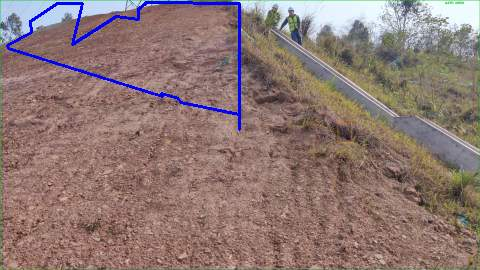
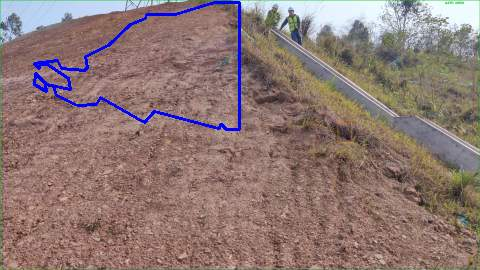
fix: 恢复正确视频映射 + 移除错误ROI标定，改用FastSAM自动检测
问题根因:
- bak文件(Jul11)中的2.flv/3.flv ROI标定已被桌面端废弃(Jul13)
- 我错误地从bak恢复了这些废弃的ROI数据
- 桌面端对2.flv/3.flv使用FastSAM自动检测，结果正确

修改:
- _shared.py: 恢复cam→flv, test→mp4的正确映射
- roi_config.json: 移除2.flv/3.flv的旧标定(仅保留1.flv/4.flv)
- 重新生成qinzhou_cam_2/3 demo数据(FastSAM自动检测ROI)
  - 2.flv: 边坡55% 道路15% → 35顶点
  - 3.flv: 边坡38% 道路13% → 28顶点

Changed region(s): [[0.0, 0.0, 0.5312, 0.5037]]

diff --git a/_shared.py b/_shared.py
@@ -266,38 +266,38 @@ DEMO_SCENES = {
     },
     "qinzhou_cam_2": {
         "title": "钦州监测视频 2",
-        "subtitle": "钦州公路边坡现场落石试验 — VID_20230304_114247.mp4",
+        "subtitle": "钦州公路边坡实时监测 — 2.flv",
         "icon": "Camera",
-        "data_dir": "demo_data/baise_s1",
+        "data_dir": "demo_data/qinzhou_cam_2",
         "site_id": "qinzhou_s0",
-        "source_video": "VID_20230304_114247.mp4",
+        "source_video": "2.flv",
         "tags": ["钦州", "监测摄像头", "实时"],
     },
     "qinzhou_cam_3": {
         "title": "钦州监测视频 3",
-        "subtitle": "钦州公路边坡现场落石试验 — VID_20230304_153140.mp4",
+        "subtitle": "钦州公路边坡实时监测 — 3.flv",
         "icon": "Camera",
-        "data_dir": "demo_data/qinzhou_s1",
+        "data_dir": "demo_data/qinzhou_cam_3",
         "site_id": "qinzhou_s0",
-        "source_video": "VID_20230304_153140.mp4",
+        "source_video": "3.flv",
         "tags": ["钦州", "监测摄像头", "实时"],
     },
     "qinzhou_test_a": {
         "title": "钦州落石试验 A",
-        "subtitle": "钦州公路边坡实时监测 — 2.flv",
+        "subtitle": "钦州现场落石试验 — VID_20230304_114247.mp4",
         "icon": "Experiment",
-        "data_dir": "demo_data/qinzhou_cam_2",
+        "data_dir": "demo_data/baise_s1",
         "site_id": "qinzhou_s0",
-        "source_video": "2.flv",
+        "source_video": "VID_20230304_114247.mp4",
         "tags": ["钦州", "落石试验", "现场"],
     },
     "qinzhou_test_b": {
         "title": "钦州落石试验 B",
-        "subtitle": "钦州公路边坡实时监测 — 3.flv",
+        "subtitle": "钦州现场落石试验 — VID_20230304_153140.mp4",
         "icon": "Experiment",
-        "data_dir": "demo_data/qinzhou_cam_3",
+        "data_dir": "demo_data/qinzhou_s1",
         "site_id": "qinzhou_s0",
-        "source_video": "3.flv",
+        "source_video": "VID_20230304_153140.mp4",
         "tags": ["钦州", "落石试验", "现场"],
     },
     # ── 以下场景已有视频源，待 GPU 生成 demo 数据 ──

diff --git a/scripts/generate_all_demos.py b/scripts/generate_all_demos.py
@@ -53,26 +53,26 @@ DEMO_SCENES = {
     },
     "qinzhou_cam_2": {
         "title": "钦州监测视频 2",
-        "subtitle": "钦州公路边坡现场落石试验 — VID_20230304_114247.mp4",
-        "data_dir": "demo_data/baise_s1",
+        "subtitle": "钦州公路边坡实时监测 — 2.flv",
+        "data_dir": "demo_data/qinzhou_cam_2",
         "tags": ["钦州", "监测摄像头", "实时"],
     },
     "qinzhou_cam_3": {
         "title": "钦州监测视频 3",
-        "subtitle": "钦州公路边坡现场落石试验 — VID_20230304_153140.mp4",
-        "data_dir": "demo_data/qinzhou_s1",
+        "subtitle": "钦州公路边坡实时监测 — 3.flv",
+        "data_dir": "demo_data/qinzhou_cam_3",
         "tags": ["钦州", "监测摄像头", "实时"],
     },
     "qinzhou_test_a": {
         "title": "钦州落石试验 A",
-        "subtitle": "钦州公路边坡实时监测 — 2.flv",
-        "data_dir": "demo_data/qinzhou_cam_2",
+        "subtitle": "钦州现场落石试验 — VID_20230304_114247.mp4",
+        "data_dir": "demo_data/baise_s1",
         "tags": ["钦州", "落石试验", "现场"],
     },
     "qinzhou_test_b": {
         "title": "钦州落石试验 B",
-        "subtitle": "钦州公路边坡实时监测 — 3.flv",
-        "data_dir": "demo_data/qinzhou_cam_3",
+        "subtitle": "钦州现场落石试验 — VID_20230304_153140.mp4",
+        "data_dir": "demo_data/qinzhou_s1",
         "tags": ["钦州", "落石试验", "现场"],
     },
     # ── 以下场景已有视频源，待 GPU 生成 ──
